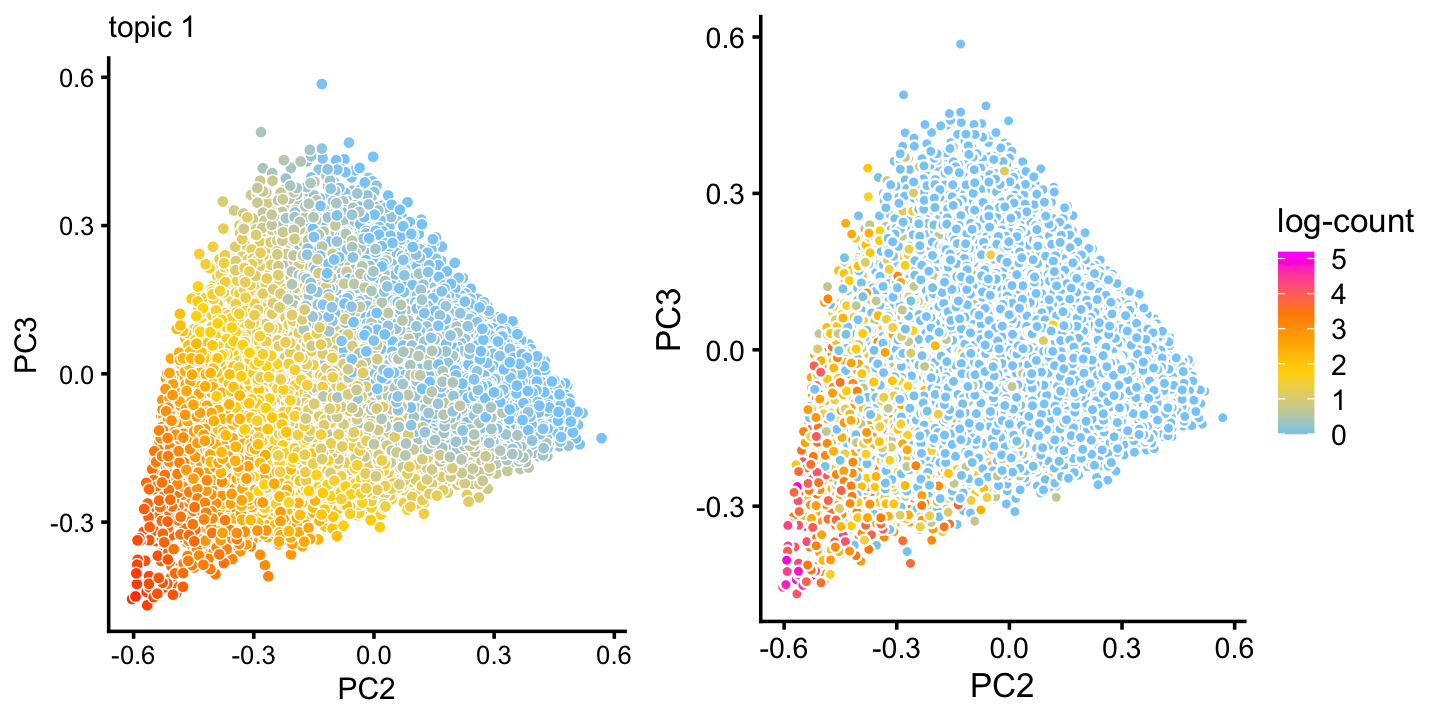
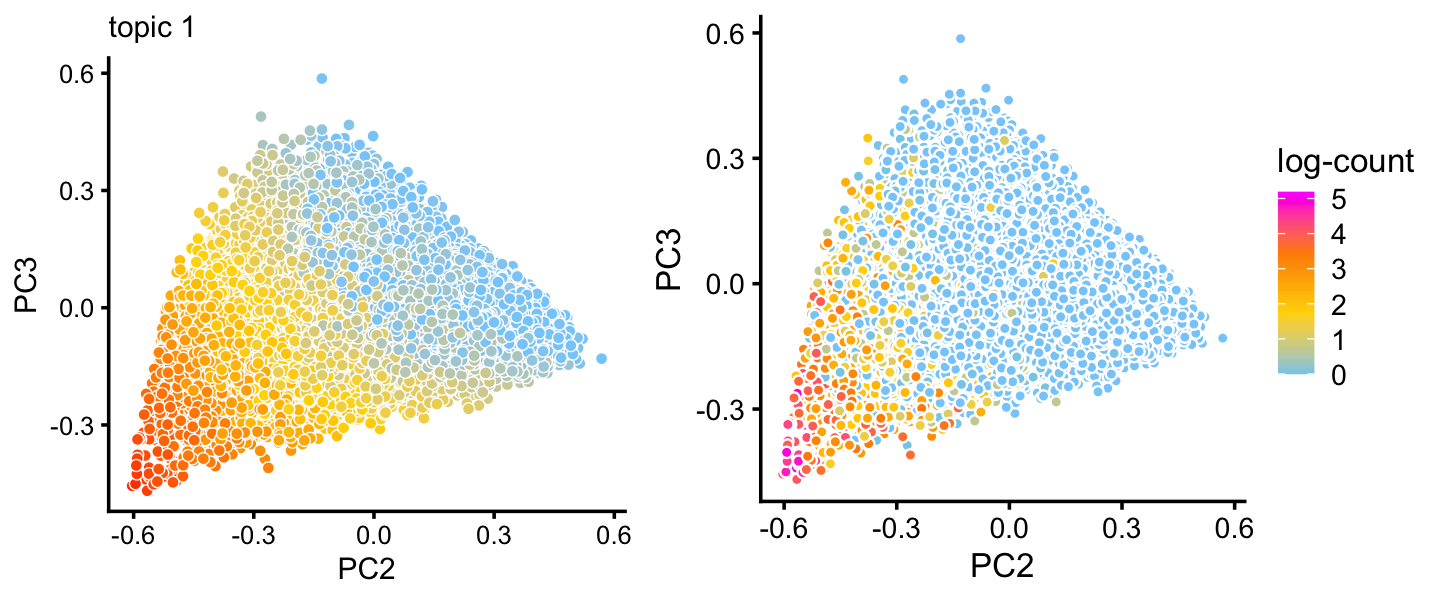
Resized the plots once more.

diff --git a/docs/clusters_pulseseq.html b/docs/clusters_pulseseq.html
@@ -414,16 +414,16 @@ This reproducible <a href="http://rmarkdown.rstudio.com">R Markdown</a> analysis
 <div class="panel panel-default">
 <div class="panel-heading">
 <p class="panel-title">
-<a data-toggle="collapse" data-parent="#workflowr-checks" href="#strongRepositoryversionstrongahrefhttpsgithubcomstephenslabsinglecelltopicstreea853b6048bb2ee7f9e1c62c6bc832088258d0b30targetblanka853b60a"> <span class="glyphicon glyphicon-ok text-success" aria-hidden="true"></span> <strong>Repository version:</strong> <a href="https://github.com/stephenslab/single-cell-topics/tree/a853b6048bb2ee7f9e1c62c6bc832088258d0b30" target="_blank">a853b60</a> </a>
+<a data-toggle="collapse" data-parent="#workflowr-checks" href="#strongRepositoryversionstrongahrefhttpsgithubcomstephenslabsinglecelltopicstree11192fcabef6dda119d09a09d52a29632f9eb4fdtargetblank11192fca"> <span class="glyphicon glyphicon-ok text-success" aria-hidden="true"></span> <strong>Repository version:</strong> <a href="https://github.com/stephenslab/single-cell-topics/tree/11192fcabef6dda119d09a09d52a29632f9eb4fd" target="_blank">11192fc</a> </a>
 </p>
 </div>
[2 lines of base64/hex data omitted]
 <div class="panel-body">
 <p>
 Great! You are using Git for version control. Tracking code development and connecting the code version to the results is critical for reproducibility.
 </p>
 <p>
-The results in this page were generated with repository version <a href="https://github.com/stephenslab/single-cell-topics/tree/a853b6048bb2ee7f9e1c62c6bc832088258d0b30" target="_blank">a853b60</a>. See the <em>Past versions</em> tab to see a history of the changes made to the R Markdown and HTML files.
+The results in this page were generated with repository version <a href="https://github.com/stephenslab/single-cell-topics/tree/11192fcabef6dda119d09a09d52a29632f9eb4fd" target="_blank">11192fc</a>. See the <em>Past versions</em> tab to see a history of the changes made to the R Markdown and HTML files.
 </p>
 <p>
 Note that you need to be careful to ensure that all relevant files for the analysis have been committed to Git prior to generating the results (you can use <code>wflow_publish</code> or <code>wflow_git_commit</code>). workflowr only checks the R Markdown file, but you know if there are other scripts or data files that it depends on. Below is the status of the Git repository when the results were generated:
@@ -488,6 +488,40 @@ Message
 </tr>
 </thead>
 <tbody>
+<tr>
+<td>
+Rmd
+</td>
+<td>
+<a href="https://github.com/stephenslab/single-cell-topics/blob/11192fcabef6dda119d09a09d52a29632f9eb4fd/analysis/clusters_pulseseq.Rmd" target="_blank">11192fc</a>
+</td>
+<td>
+Peter Carbonetto
+</td>
+<td>
+2020-09-27
+</td>
+<td>
+workflowr::wflow_publish(“clusters_pulseseq.Rmd”)
+</td>
+</tr>
+<tr>
+<td>
+html
+</td>
+<td>
+<a href="https://rawcdn.githack.com/stephenslab/single-cell-topics/7d78e71460e4f6a38c095b0d93d90d602d3f1d50/docs/clusters_pulseseq.html" target="_blank">7d78e71</a>
+</td>
+<td>
+Peter Carbonetto
+</td>
+<td>
+2020-09-27
+</td>
+<td>
+Resized a figure in clusters_pulseseq analysis.
+</td>
+</tr>
 <tr>
 <td>
 Rmd
@@ -1739,6 +1773,17 @@ Date
 </tr>
 </thead>
 <tbody>
+<tr>
+<td>
+<a href="https://github.com/stephenslab/single-cell-topics/blob/7d78e71460e4f6a38c095b0d93d90d602d3f1d50/docs/figure/clusters_pulseseq.Rmd/pca-plot-basal-1.png" target="_blank">7d78e71</a>
+</td>
+<td>
+Peter Carbonetto
+</td>
+<td>
+2020-09-27
+</td>
+</tr>
 <tr>
 <td>
 <a href="https://github.com/stephenslab/single-cell-topics/blob/a67196abd388ee8c7e9ae4693bc40ed0894546e1/docs/figure/clusters_pulseseq.Rmd/pca-plot-basal-1.png" target="_blank">a67196a</a>
